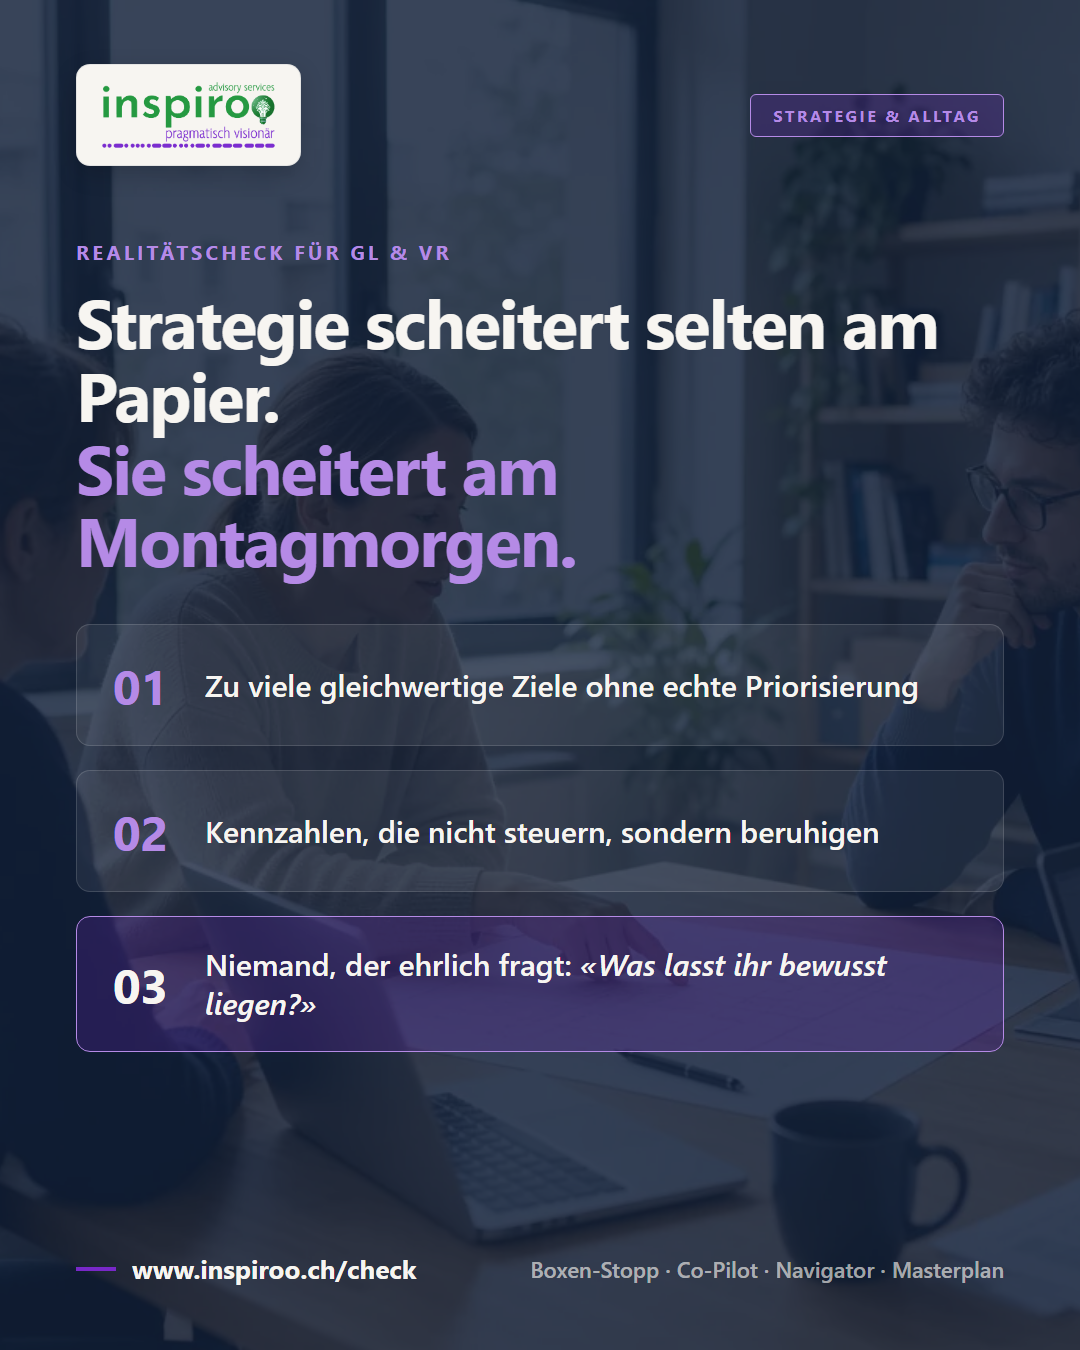
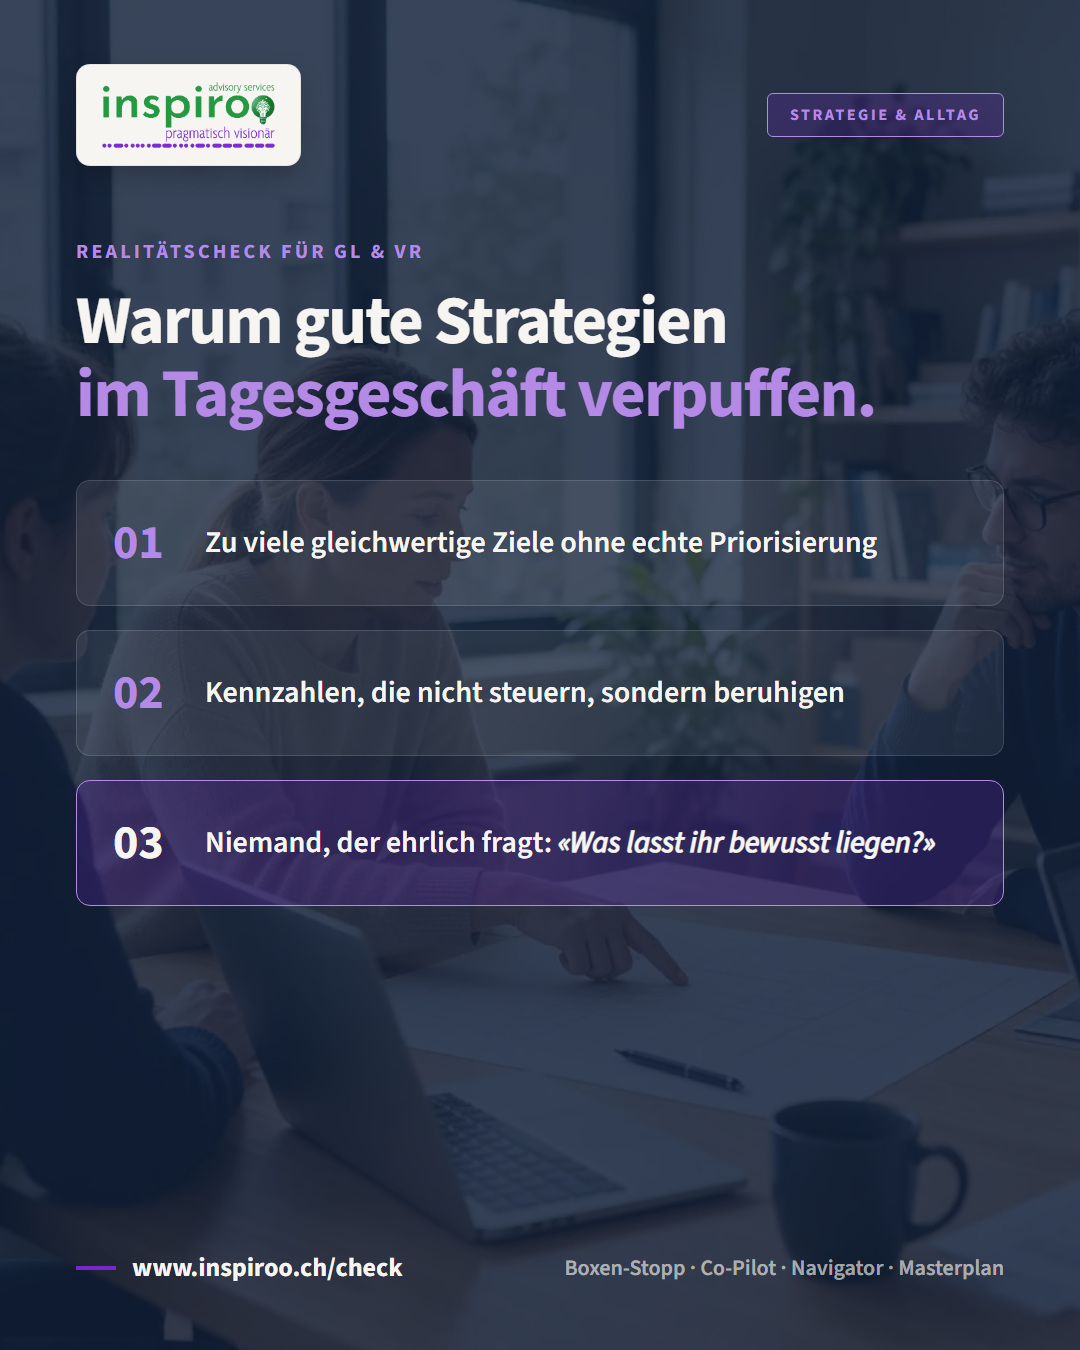
style(marketing): use complementary headlines on LinkedIn post illustrations

diff --git a/marketing/linkedin/post-10-recap.html b/marketing/linkedin/post-10-recap.html
@@ -173,10 +173,14 @@ html, body {
           <span class="pill pill-navy">Auf einen Punkt gebracht</span>
         </div>
         <div style="padding: 80px 76px 0 76px; z-index: 10;">
-          <p class="eyebrow eyebrow-dark">Meine Arbeit in einem Satz</p>
-          <h1 style="font-size: 62px; font-weight: 700; line-height: 1.13; letter-spacing: -0.025em; color: var(--navy); margin-bottom: 36px;">
-            «Sparring auf Augenhöhe aus über 30 Jahren C-Level – für Unternehmer und Führungsgremien, <span style="color: var(--violet);">wenn viel auf dem Spiel steht</span> und der Weg nicht eindeutig ist.»
+          <p class="eyebrow eyebrow-dark">Sparring auf Augenhöhe · 30+ Jahre C-Level</p>
+          <h1 style="font-size: 68px; font-weight: 700; line-height: 1.1; letter-spacing: -0.025em; color: var(--navy); margin-bottom: 32px;">
+            Wenn viel auf dem Spiel steht –<br/>
+            <span style="color: var(--violet);">und der Weg nicht eindeutig ist.</span>
           </h1>
+          <p style="font-size: 32px; line-height: 1.45; color: rgba(19,33,58,0.82); margin-bottom: 36px; max-width: 34ch;">
+            Unabhängige Begleitung für Unternehmerinnen, Unternehmer und Führungsgremien in Veränderungsphasen.
+          </p>
           <div class="rule" style="margin-bottom: 28px;"></div>
           <p style="font-size: 28px; font-weight: 600; color: rgba(19,33,58,0.75);">
             Thomas Giger · Gründer &amp; Inhaber inspiroo gmbh, Winterthur

diff --git a/marketing/linkedin/post-08-fallstudie.html b/marketing/linkedin/post-08-fallstudie.html
@@ -160,12 +160,12 @@ html, body {
         </div>
         <div style="padding: 310px 76px 0 76px; z-index: 10;">
           <p class="eyebrow">Historischer Verein Winterthur · Museum Schaffen</p>
-          <h1 style="font-size: 70px; font-weight: 700; line-height: 1.06; letter-spacing: -0.025em; margin-bottom: 28px;">
-            Museum ja –<br/>
-            <span style="color: var(--violet-light);">Berater-Sprech nein.</span>
+          <h1 style="font-size: 66px; font-weight: 700; line-height: 1.08; letter-spacing: -0.025em; margin-bottom: 28px;">
+            Prozesse verschlanken –<br/>
+            <span style="color: var(--violet-light);">ohne schweres IT-Grossprojekt.</span>
           </h1>
           <p style="font-size: 30px; line-height: 1.45; color: rgba(247,245,241,0.86); margin-bottom: 44px;">
-            Prozesse verschlanken und digital sichtbar werden – <strong>ohne schweres IT-Grossprojekt.</strong>
+            Wie ein Verein mit Museumsbetrieb seine Abläufe und digitale Präsenz schlank erneuert hat.
           </p>
           <div style="background: rgba(255,255,255,0.07); border: 1px solid rgba(255,255,255,0.16); border-radius: 16px; padding: 36px 42px; display:flex; flex-direction:column; gap: 20px;">
             <div style="font-size: 20px; font-weight: 700; letter-spacing: 0.14em; text-transform: uppercase; color: var(--violet-light);">Das Resultat im Betrieb</div>

diff --git a/marketing/linkedin/post-07-ki-gl.html b/marketing/linkedin/post-07-ki-gl.html
@@ -157,14 +157,14 @@ html, body {
             <span class="pill">Digitalisierung &amp; KI</span>
           </div>
           <p class="eyebrow">Mit der Brille von GL und Verwaltungsrat</p>
-          <h1 style="font-size: 64px; font-weight: 700; line-height: 1.08; letter-spacing: -0.02em;">
-            KI in der Geschäftsleitung:<br/>
-            <span style="color: var(--violet-light);">Weniger Demo, mehr Entscheidungsreife.</span>
+          <h1 style="font-size: 62px; font-weight: 700; line-height: 1.08; letter-spacing: -0.02em;">
+            KI auf GL- &amp; VR-Ebene:<br/>
+            <span style="color: var(--violet-light);">Drei Fragen vor jedem Tool-Entscheid.</span>
           </h1>
         </div>
         <div style="padding: 52px 76px 0 76px; display:flex; flex-direction:column; gap: 24px;">
           <p style="font-size: 28px; color: rgba(19,33,58,0.8); font-weight: 600; margin-bottom: 8px;">
-            Drei Fragen vor jedem Tool-Entscheid:
+            Worauf es jenseits der Demos wirklich ankommt:
           </p>
           <div style="background: #ffffff; border-left: 8px solid var(--violet); border-radius: 12px; padding: 30px 36px; box-shadow: 0 10px 28px rgba(19,33,58,0.06);">
             <div style="font-size: 32px; font-weight: 700; color: var(--navy);">1. Welcher unternehmerische Hebel?</div>

diff --git a/marketing/linkedin/post-09-kapazitaet.html b/marketing/linkedin/post-09-kapazitaet.html
@@ -160,9 +160,9 @@ html, body {
         </div>
         <div style="padding: 310px 76px 0 76px; z-index: 10;">
           <p class="eyebrow">Nicht gross · Nicht endlos · Aber mit Tiefe</p>
-          <h1 style="font-size: 68px; font-weight: 700; line-height: 1.07; letter-spacing: -0.025em; margin-bottom: 32px;">
-            Kapazität für <span style="color: var(--violet-light);">zwei neue</span><br/>
-            Sparring-Mandate.
+          <h1 style="font-size: 66px; font-weight: 700; line-height: 1.08; letter-spacing: -0.025em; margin-bottom: 32px;">
+            Strategische Weiche oder Nachfolge?<br/>
+            <span style="color: var(--violet-light);">Sparring mit Tiefe.</span>
           </h1>
           <div style="display:flex; flex-direction:column; gap: 20px; font-size: 31px; font-weight: 600; margin-bottom: 48px; color: rgba(247,245,241,0.92);">
             <div>→ Strategische Weiche, Transformation oder Nachfolge</div>

diff --git a/marketing/linkedin/post-03-pain-point.html b/marketing/linkedin/post-03-pain-point.html
@@ -159,8 +159,8 @@ html, body {
         <div style="padding: 72px 76px 0 76px; z-index: 10;">
           <p class="eyebrow">Realitätscheck für GL &amp; VR</p>
           <h1 style="font-size: 68px; font-weight: 700; line-height: 1.07; letter-spacing: -0.025em; margin-bottom: 48px;">
-            Strategie scheitert selten am Papier.<br/>
-            <span style="color: var(--violet-light);">Sie scheitert am Montagmorgen.</span>
+            Warum gute Strategien<br/>
+            <span style="color: var(--violet-light);">im Tagesgeschäft verpuffen.</span>
           </h1>
           <div style="display:flex; flex-direction:column; gap: 24px;">
             <div style="display:flex; align-items:center; gap: 28px; background: rgba(255,255,255,0.07); border: 1px solid rgba(255,255,255,0.14); border-radius: 14px; padding: 28px 36px;">

diff --git a/marketing/linkedin/post-05-boxen-stopp.html b/marketing/linkedin/post-05-boxen-stopp.html
@@ -161,8 +161,8 @@ html, body {
         <div style="padding: 84px 76px 0 76px; z-index: 10;">
           <p class="eyebrow">Klarheit statt 40 Folien</p>
           <h1 style="font-size: 66px; font-weight: 700; line-height: 1.08; letter-spacing: -0.025em; margin-bottom: 32px;">
-            Wo verdient ihr wirklich Geld –<br/>
-            <span style="color: var(--violet-light);">und wo verliert ihr es?</span>
+            Boxen-Stopp: In 90 Tagen<br/>
+            <span style="color: var(--violet-light);">zu wirtschaftlicher Klarheit.</span>
           </h1>
           <p style="font-size: 30px; line-height: 1.45; color: rgba(247,245,241,0.85); margin-bottom: 52px;">
             Für Inhaber und Geschäftsleitungen, die unter Zeitdruck wirtschaftliche Klarheit wollen – nicht noch ein Strategieprojekt.

diff --git a/marketing/linkedin/post-06-ceo-story.html b/marketing/linkedin/post-06-ceo-story.html
@@ -161,8 +161,8 @@ html, body {
         <div style="padding: 400px 76px 0 76px; z-index: 10;">
           <p class="eyebrow">An der Spitze steht man oft allein</p>
           <h1 style="font-size: 64px; font-weight: 700; line-height: 1.09; letter-spacing: -0.025em; margin-bottom: 28px;">
-            Als CEO trägst Du Verantwortung –<br/>
-            <span style="color: var(--violet-light);">und brauchst ein Gegenüber ohne eigene Agenda.</span>
+            Unabhängiges Sparring –<br/>
+            <span style="color: var(--violet-light);">wenn Entscheidungen einsam machen.</span>
           </h1>
           <div class="rule" style="margin-bottom: 32px;"></div>
           <p style="font-size: 30px; line-height: 1.48; color: rgba(247,245,241,0.86); margin-bottom: 36px;">
